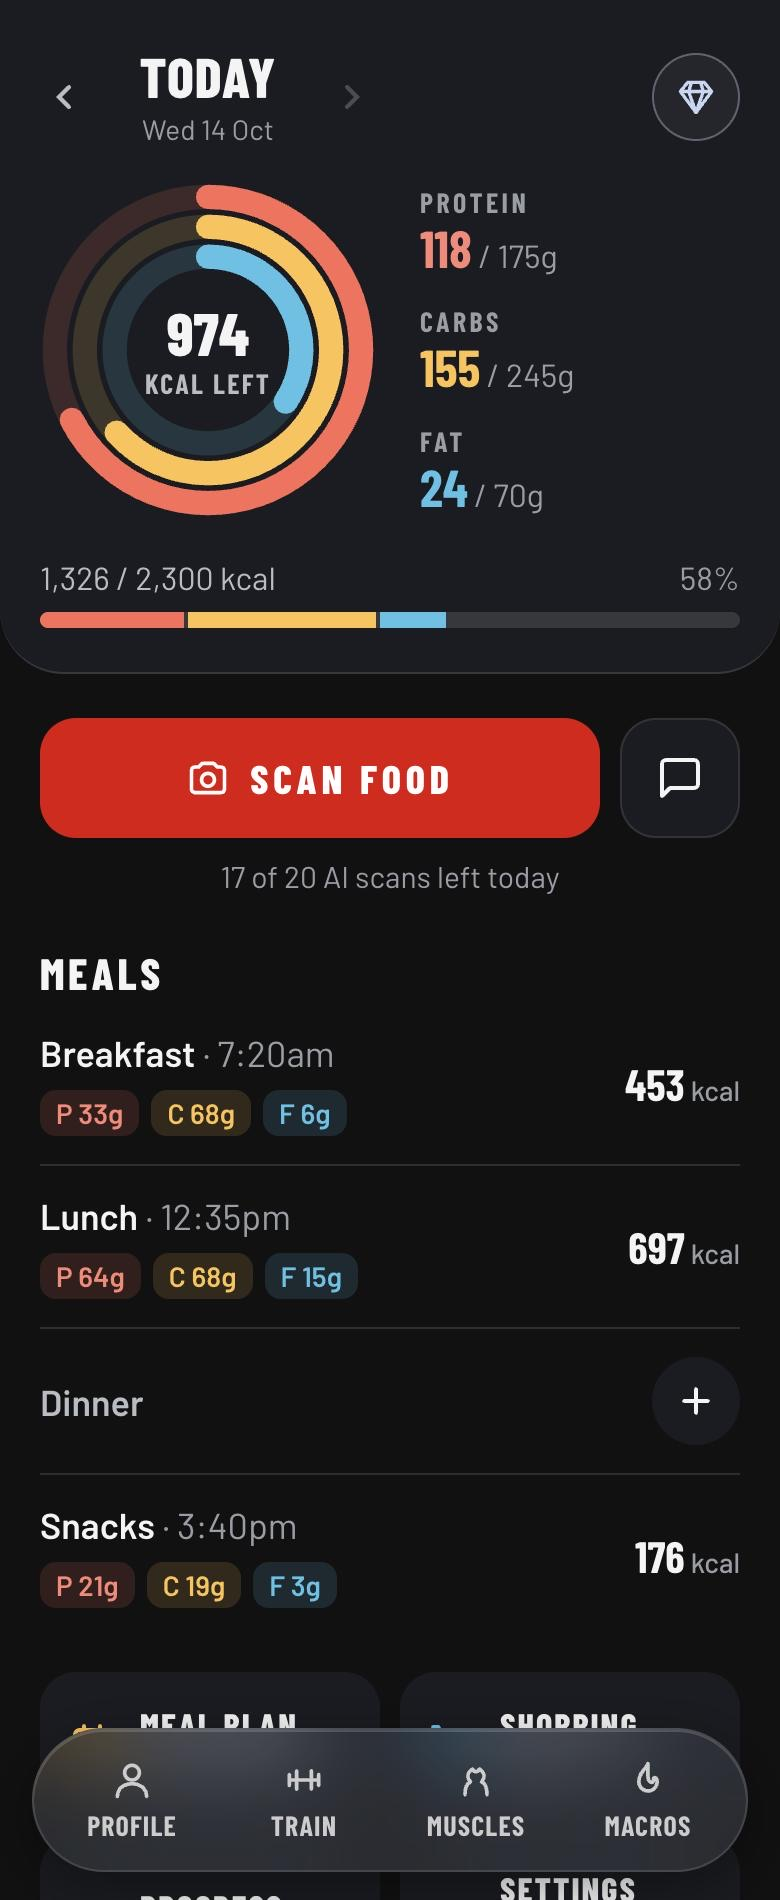
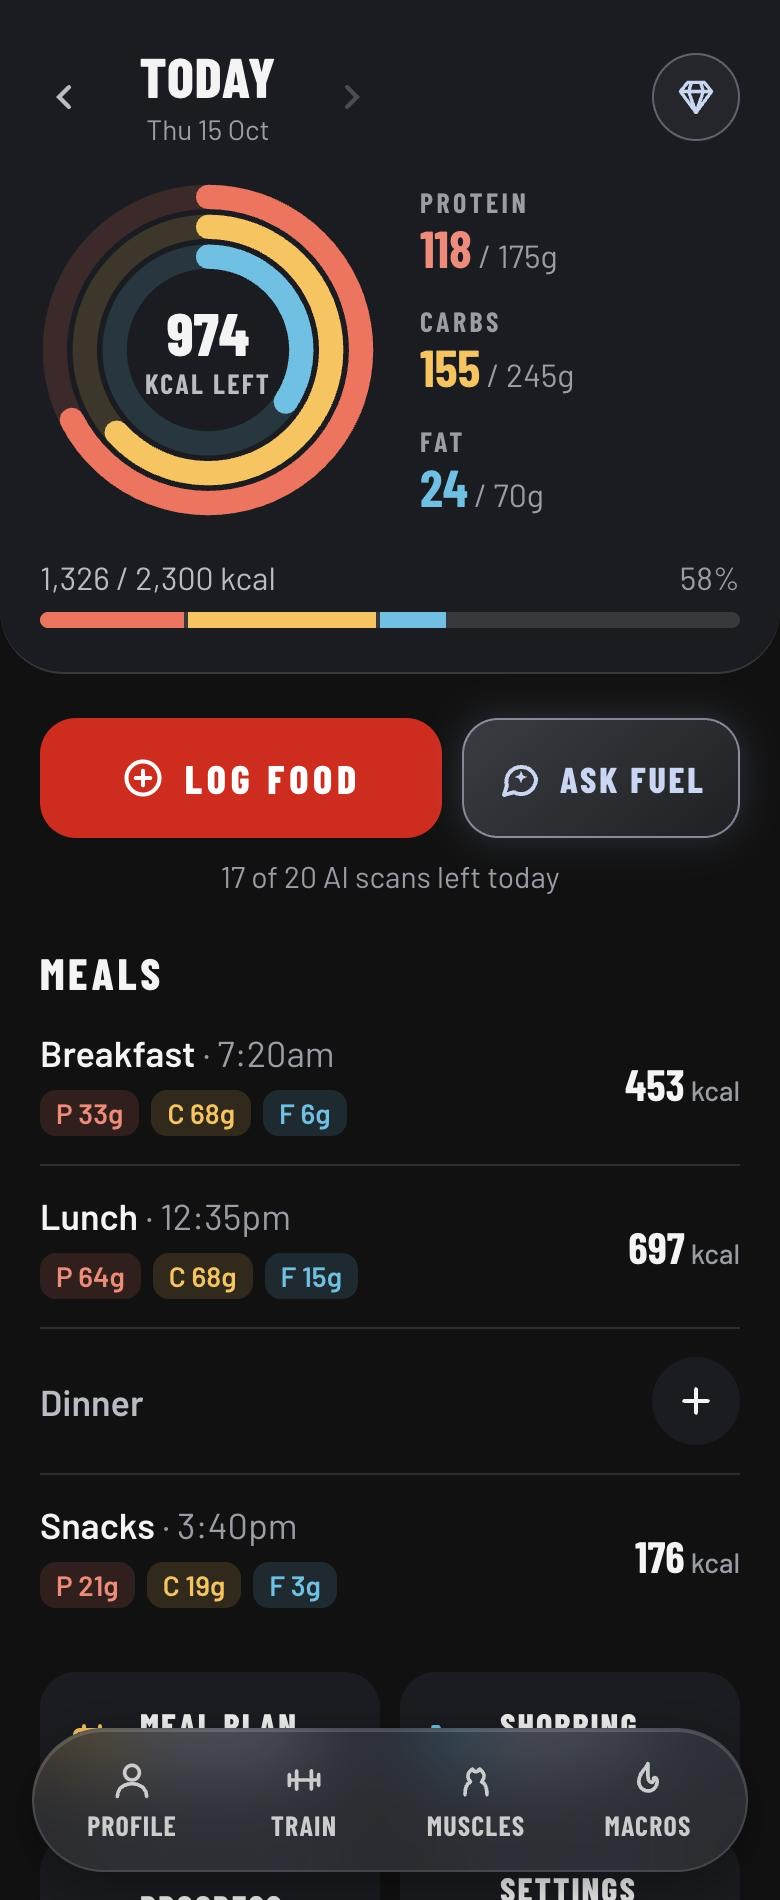
Site: retake the Fuel picture (Log Food, Ask Fuel)
The homepage Fuel screenshot still showed the old Scan Food button and the
icon-only chat button. Retaken from the live Fuel home with the made-up
member, so it shows the plus-icon Log Food button and the labelled Ask Fuel
button. Alt text updated to match.

Changed region(s): [[0.1538, 0.3726, 0.8923, 0.4658], [0.1846, 0.0621, 0.3385, 0.0932], [0.9231, 0.3726, 0.9538, 0.4347]]

diff --git a/index.html b/index.html
@@ -302,7 +302,7 @@ First Aid Certificate
 </figure>
 <figure class="showcase__item reveal-scale">
 <div class="showcase__phone">
-<img src="assets/images/card-fuel.jpg" width="780" height="1900" loading="lazy" alt="Fuel on a phone, showing calorie and macro rings, a Scan Food button and the day's meals" />
+<img src="assets/images/card-fuel.jpg" width="780" height="1900" loading="lazy" alt="Fuel on a phone, showing calorie and macro rings, Log Food and Ask Fuel buttons and the day's meals" />
 </div>
 <figcaption><strong>Fuel</strong><span>Log your food, hit your protein and see your macros at a glance.</span></figcaption>
 </figure>
